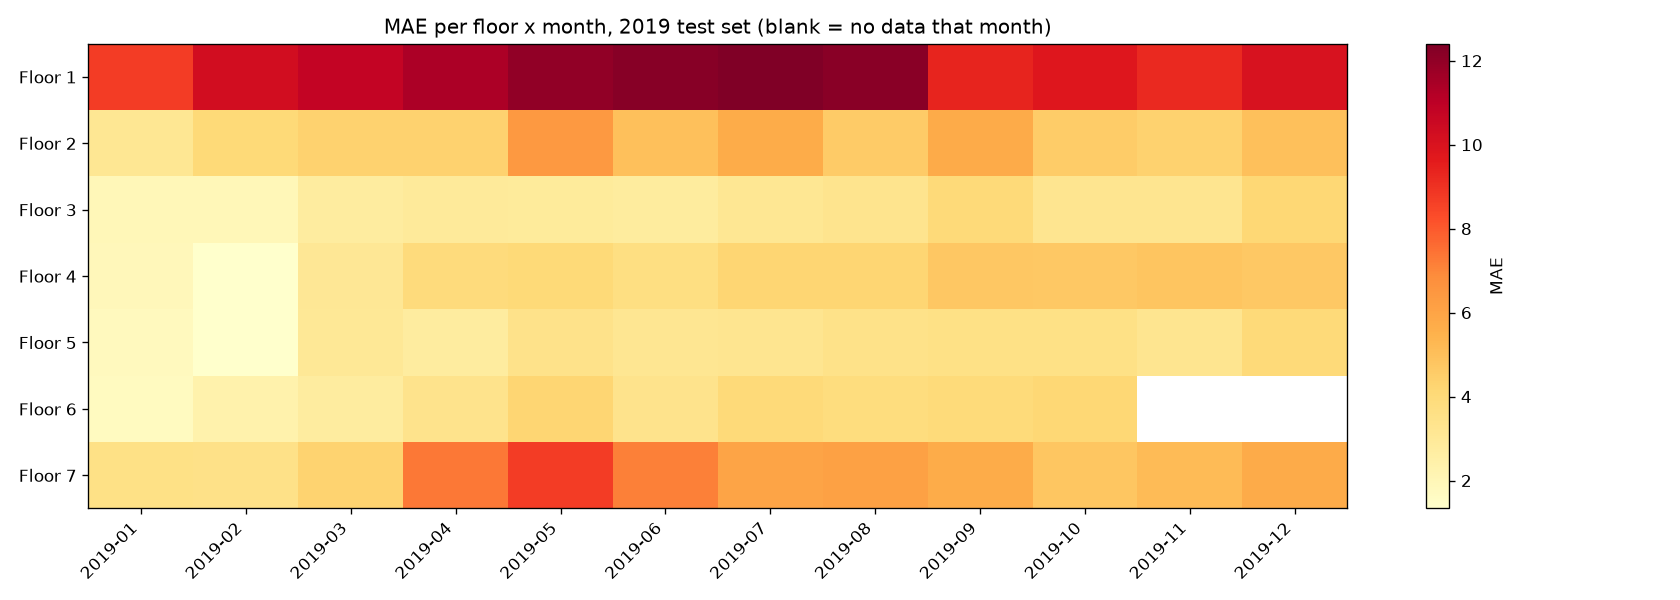
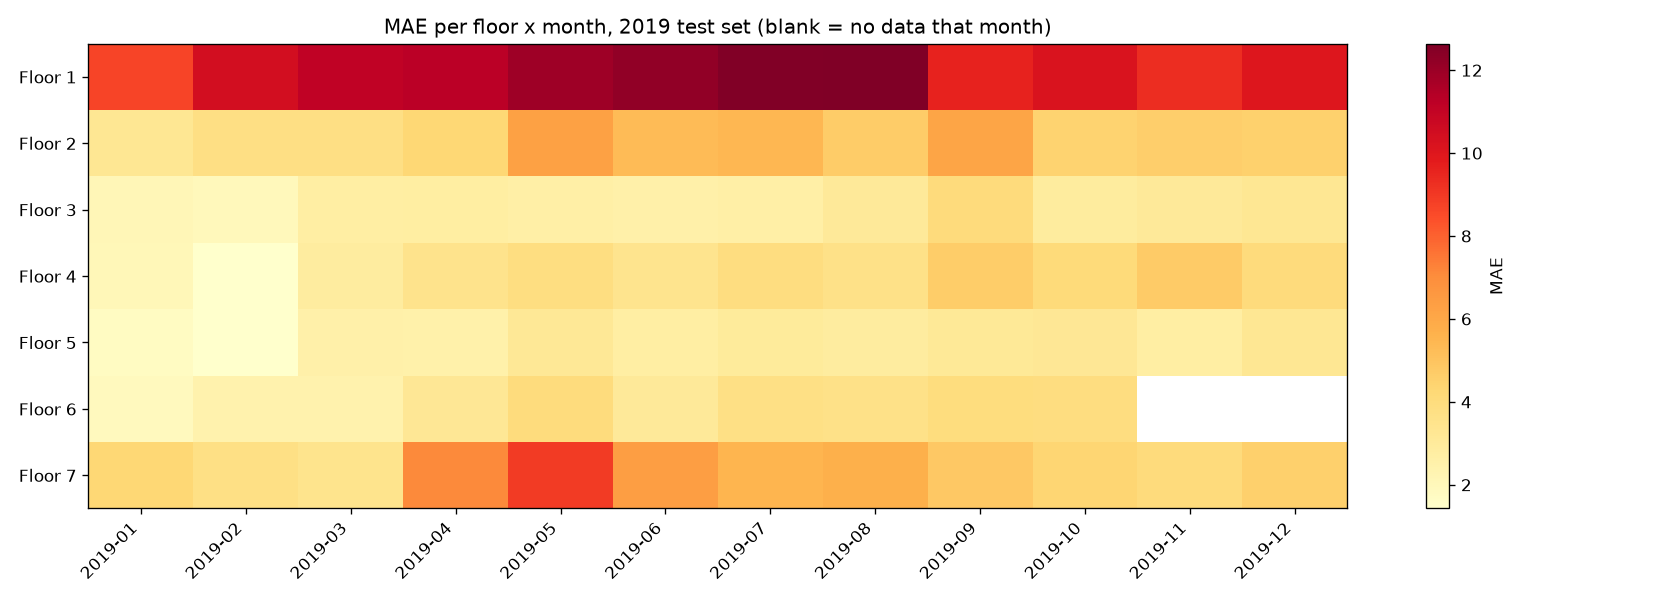
Refine RandomForest hyperparameters for practical SHAP/deployment size
While building step 13 (SHAP), exact TreeExplainer computation on the
original step-9 model (n_estimators=300, max_depth=None,
min_samples_leaf=2 -- 351.6MB serialized) did not finish in several
minutes, which would also make the Streamlit app's live per-prediction
SHAP explanation (step 15) unusably slow. A small hyperparameter sweep
against the same 2018-train/2019-test split found n_estimators=150,
max_depth=14, min_samples_leaf=10 scores slightly BETTER on every
metric (MAE 4.76 vs 4.96, RMSE 9.81 vs 9.92, R2 0.9493 vs 0.9482) at
~19x smaller (18.9MB vs 351.6MB) -- the original forest was mildly
overfitting the ~30k-row training set. Updated src/train.py and
regenerated the dependent reports (model_training, forecast_stability,
model_evaluation, consumption_trends) and their figures so every number
in the repo is consistent with the model actually shipped.

diff --git a/src/train.py b/src/train.py
@@ -52,8 +52,15 @@ def main():
     results = []
 
     t0 = time.time()
+    # max_depth/min_samples_leaf chosen via a small sweep against an
+    # unconstrained forest (n_estimators=300, max_depth=None,
+    # min_samples_leaf=2): the unconstrained version scored MAE 4.96/R2
+    # 0.948 but was 351MB and made exact SHAP TreeExplainer computation
+    # (step 13) and the live Streamlit app (step 15) impractically slow.
+    # This constrained config scores slightly BETTER (less overfit on
+    # ~30k training rows) at ~19MB -- a strict win, not a tradeoff.
     rf = RandomForestRegressor(
-        n_estimators=300, max_depth=None, min_samples_leaf=2,
+        n_estimators=150, max_depth=14, min_samples_leaf=10,
         n_jobs=-1, random_state=42,
     )
     rf.fit(X_train, y_train)

diff --git a/reports/forecast_stability.md b/reports/forecast_stability.md
@@ -4,40 +4,40 @@ Checks the winning model's 2019 performance broken down by floor and by month, n
 
 ## Overall (reference)
 
-MAE 4.957, RMSE 9.918, WAPE 15.49%, R2 0.948 (n=59,630)
+MAE 4.763, RMSE 9.807, WAPE 14.89%, R2 0.949 (n=59,630)
 
 ## Per floor
 
 |   floor_id |    n |    MAE |   RMSE |   MAPE_% |   WAPE_% |    R2 |
 |-----------:|-----:|-------:|-------:|---------:|---------:|------:|
-|          1 | 8760 | 10.703 | 15.761 |   12.962 |   10.494 | 0.866 |
-|          2 | 8760 |  4.771 |  9.699 |   28.129 |   17.335 | 0.913 |
-|          3 | 8760 |  3.03  |  5.981 |   69.31  |   20.873 | 0.918 |
-|          4 | 8760 |  3.794 |  8.552 |  184.398 |   25.291 | 0.85  |
-|          5 | 8760 |  3.062 |  5.998 |   61.285 |   24.809 | 0.88  |
-|          6 | 7070 |  3.353 |  7.062 |  689.973 |   15.227 | 0.951 |
-|          7 | 8760 |  5.673 | 11.914 |  105.283 |   19.808 | 0.927 |
+|          1 | 8760 | 10.829 | 15.913 |   13.273 |   10.617 | 0.864 |
+|          2 | 8760 |  4.711 | 10.09  |   26.286 |   17.12  | 0.906 |
+|          3 | 8760 |  2.812 |  5.686 |   41.227 |   19.368 | 0.926 |
+|          4 | 8760 |  3.53  |  7.572 |  149.95  |   23.53  | 0.882 |
+|          5 | 8760 |  2.698 |  5.544 |   39.221 |   21.862 | 0.897 |
+|          6 | 7070 |  3.213 |  6.982 |  677.466 |   14.595 | 0.952 |
+|          7 | 8760 |  5.248 | 11.828 |   79.413 |   18.322 | 0.928 |
 
-**Floors with MAE > 1.5x overall (7.43): [1]**
+**Floors with MAE > 1.5x overall (7.14): [1]**
 
-  - Floor 1: flagged on raw MAE, but its WAPE (10.49%) is actually *at or below* the overall WAPE (15.49%). This floor runs at a much higher baseline scale (see `eda_findings.md` -- Floor 1's mean energy is ~4-5x the other floors), so a larger absolute MAE there is expected and is not evidence of worse relative forecast quality; WAPE, which normalizes by scale, says this floor is forecast proportionally *better* than average, not worse.
+  - Floor 1: flagged on raw MAE, but its WAPE (10.62%) is actually *at or below* the overall WAPE (14.89%). This floor runs at a much higher baseline scale (see `eda_findings.md` -- Floor 1's mean energy is ~4-5x the other floors), so a larger absolute MAE there is expected and is not evidence of worse relative forecast quality; WAPE, which normalizes by scale, says this floor is forecast proportionally *better* than average, not worse.
 
 ## Per month (2019)
 
 | month   |    n |   MAE |   RMSE |   MAPE_% |   WAPE_% |    R2 |
 |:--------|-----:|------:|-------:|---------:|---------:|------:|
-| 2019-01 | 5208 | 3.259 |  7.874 |   24.613 |   11.008 | 0.964 |
-| 2019-02 | 4704 | 3.543 |  8.223 |   44.427 |   12.103 | 0.963 |
-| 2019-03 | 5208 | 4.432 |  8.709 |   62.374 |   13.947 | 0.959 |
-| 2019-04 | 5040 | 5.147 | 10.288 |   79.045 |   16.061 | 0.948 |
-| 2019-05 | 5208 | 5.948 | 12.015 |   56.95  |   16.736 | 0.937 |
-| 2019-06 | 5040 | 5.343 | 10.849 |   45.547 |   15.987 | 0.944 |
-| 2019-07 | 5208 | 5.527 | 10.796 |   49.347 |   16.984 | 0.941 |
-| 2019-08 | 5208 | 5.382 | 10.725 |   47.266 |   16.242 | 0.942 |
-| 2019-09 | 5040 | 5.286 |  9.597 | 1190.66  |   16.491 | 0.942 |
-| 2019-10 | 4982 | 4.998 |  9.525 |   50.793 |   15.492 | 0.951 |
-| 2019-11 | 4320 | 5.017 |  9.232 |   44.743 |   15.344 | 0.951 |
-| 2019-12 | 4464 | 5.593 | 10.157 |   85.734 |   19.234 | 0.935 |
+| 2019-01 | 5208 | 3.436 |  8.447 |   25.47  |   11.607 | 0.958 |
+| 2019-02 | 4704 | 3.597 |  8.582 |   37.237 |   12.288 | 0.96  |
+| 2019-03 | 5208 | 4.13  |  8.241 |   44.02  |   12.998 | 0.964 |
+| 2019-04 | 5040 | 4.938 | 10.261 |   56.193 |   15.406 | 0.949 |
+| 2019-05 | 5208 | 5.828 | 12.228 |   47.396 |   16.401 | 0.934 |
+| 2019-06 | 5040 | 5.098 | 10.728 |   34.801 |   15.255 | 0.946 |
+| 2019-07 | 5208 | 5.264 | 10.543 |   35.825 |   16.176 | 0.944 |
+| 2019-08 | 5208 | 5.177 | 10.561 |   35.002 |   15.623 | 0.944 |
+| 2019-09 | 5040 | 5.179 |  9.49  | 1137.11  |   16.155 | 0.944 |
+| 2019-10 | 4982 | 4.761 |  9.297 |   34.217 |   14.76  | 0.954 |
+| 2019-11 | 4320 | 4.747 |  8.827 |   33.926 |   14.517 | 0.956 |
+| 2019-12 | 4464 | 4.939 |  9.382 |   42.721 |   16.986 | 0.944 |
 
 No month exceeds 1.5x the overall MAE.
 

diff --git a/reports/model_evaluation.md b/reports/model_evaluation.md
@@ -4,24 +4,24 @@ MAE / RMSE / MAPE for the winning model (`data/processed/test_predictions.csv`, 
 
 ## Overall
 
-- MAE: 4.957
-- RMSE: 9.918
-- MAPE: 149.58%
-- (WAPE: 15.49% -- see caveat below)
-- R2: 0.948
+- MAE: 4.763
+- RMSE: 9.807
+- MAPE: 131.65%
+- (WAPE: 14.89% -- see caveat below)
+- R2: 0.949
 - n = 59,630
 
 ## Per floor
 
 |   floor_id |    n |    MAE |   RMSE |   MAPE_% |   WAPE_% |    R2 |
 |-----------:|-----:|-------:|-------:|---------:|---------:|------:|
-|          1 | 8760 | 10.703 | 15.761 |   12.962 |   10.494 | 0.866 |
-|          2 | 8760 |  4.771 |  9.699 |   28.129 |   17.335 | 0.913 |
-|          3 | 8760 |  3.03  |  5.981 |   69.31  |   20.873 | 0.918 |
-|          4 | 8760 |  3.794 |  8.552 |  184.398 |   25.291 | 0.85  |
-|          5 | 8760 |  3.062 |  5.998 |   61.285 |   24.809 | 0.88  |
-|          6 | 7070 |  3.353 |  7.062 |  689.973 |   15.227 | 0.951 |
-|          7 | 8760 |  5.673 | 11.914 |  105.283 |   19.808 | 0.927 |
+|          1 | 8760 | 10.829 | 15.913 |   13.273 |   10.617 | 0.864 |
+|          2 | 8760 |  4.711 | 10.09  |   26.286 |   17.12  | 0.906 |
+|          3 | 8760 |  2.812 |  5.686 |   41.227 |   19.368 | 0.926 |
+|          4 | 8760 |  3.53  |  7.572 |  149.95  |   23.53  | 0.882 |
+|          5 | 8760 |  2.698 |  5.544 |   39.221 |   21.862 | 0.897 |
+|          6 | 7070 |  3.213 |  6.982 |  677.466 |   14.595 | 0.952 |
+|          7 | 8760 |  5.248 | 11.828 |   79.413 |   18.322 | 0.928 |
 
 ## MAPE caveat
 
@@ -33,12 +33,12 @@ Mean residual (actual - predicted) per floor -- positive means the model tends t
 
 |   floor_id |   residual |
 |-----------:|-----------:|
-|          1 |      -1.06 |
-|          2 |       0.12 |
-|          3 |      -1.68 |
-|          4 |      -1.86 |
-|          5 |      -1.57 |
-|          6 |      -0.76 |
-|          7 |      -1.04 |
+|          1 |      -1.03 |
+|          2 |       0.23 |
+|          3 |      -1.33 |
+|          4 |      -1.36 |
+|          5 |      -1.15 |
+|          6 |      -0.53 |
+|          7 |      -0.34 |
 
 Figures: `12_actual_vs_predicted.png`, `13_residual_distribution.png`.

diff --git a/reports/model_training.md b/reports/model_training.md
@@ -6,12 +6,12 @@ Single model trained on all 2018 floors combined (`floor_id` as a feature), eval
 
 | model            |    MAE |   RMSE |   MAPE_% |    R2 |   train_seconds |
 |:-----------------|-------:|-------:|---------:|------:|----------------:|
-| RandomForest     |  4.957 |  9.918 |  149.584 | 0.948 |             6.8 |
-| GradientBoosting | 12.089 | 17.81  |  802.583 | 0.833 |            13.2 |
+| RandomForest     |  4.763 |  9.807 |  131.648 | 0.949 |             2.4 |
+| GradientBoosting | 12.089 | 17.81  |  802.583 | 0.833 |            14.7 |
 
 ## RandomForest vs GradientBoosting
 
-- MAE gap: 59.0% (RandomForest lower)
+- MAE gap: 60.6% (RandomForest lower)
 - RandomForest performs meaningfully better (>5% MAE improvement).
 - **Selected for downstream steps: RandomForest**
 
@@ -21,20 +21,20 @@ Single model trained on all 2018 floors combined (`floor_id` as a feature), eval
 
 |                 |   importance |
 |:----------------|-------------:|
-| lag_168h        |       0.6803 |
-| lag_1h          |       0.2571 |
-| lag_24h         |       0.0187 |
-| hour            |       0.0159 |
-| roll_mean_3h    |       0.0133 |
-| roll_mean_24h   |       0.0048 |
-| floor_id        |       0.0028 |
-| day_of_week     |       0.0019 |
-| temperature     |       0.0017 |
-| lux             |       0.0013 |
-| month           |       0.0011 |
-| humidity        |       0.0006 |
-| is_weekend      |       0.0005 |
-| has_sensor_data |       0.0001 |
+| lag_168h        |       0.6903 |
+| lag_1h          |       0.258  |
+| lag_24h         |       0.0166 |
+| hour            |       0.0146 |
+| roll_mean_3h    |       0.0114 |
+| roll_mean_24h   |       0.0026 |
+| floor_id        |       0.0024 |
+| day_of_week     |       0.0012 |
+| temperature     |       0.0011 |
+| lux             |       0.0008 |
+| month           |       0.0004 |
+| is_weekend      |       0.0003 |
+| humidity        |       0.0003 |
+| has_sensor_data |       0      |
 
 ### GradientBoosting
 

diff --git a/reports/consumption_trends.md b/reports/consumption_trends.md
@@ -4,7 +4,7 @@ Based on the trained RandomForest model's global feature importances and descrip
 
 ## What drives consumption, in order of importance to the model
 
-1. **Recent history dominates** (68% importance on `lag_168h` alone): the single best predictor of a floor's energy use this hour is that same floor's usage at the same hour last week. Buildings run on a repeating weekly routine (same opening hours, same occupancy pattern Monday to Monday), so last week's Tuesday-9am reading is a strong stand-in for this week's.
+1. **Recent history dominates** (69% importance on `lag_168h` alone): the single best predictor of a floor's energy use this hour is that same floor's usage at the same hour last week. Buildings run on a repeating weekly routine (same opening hours, same occupancy pattern Monday to Monday), so last week's Tuesday-9am reading is a strong stand-in for this week's.
 2. **Very recent readings matter too** (`lag_1h`, 26% importance): the previous hour's reading also carries real signal, capturing short-term momentum (a floor that was ramping up AC load 30 minutes ago is still likely doing so now).
 3. **Time-of-day and day-of-week matter, but mostly through the lag features rather than as separate importance** -- the model doesn't need to be told 'it's Tuesday at 9am' explicitly when the lag features already encode what happened at that exact slot historically. The raw `hour` feature still carries some independent weight, describing the diurnal ramp shape.
 4. **Floor identity itself carries little *extra* weight beyond history** -- not because floors don't differ (they clearly do, see below), but because each floor's own lag/rolling features already encode its scale and behavior. `floor_id` would matter more if the model had to predict a *new* floor with no history.
